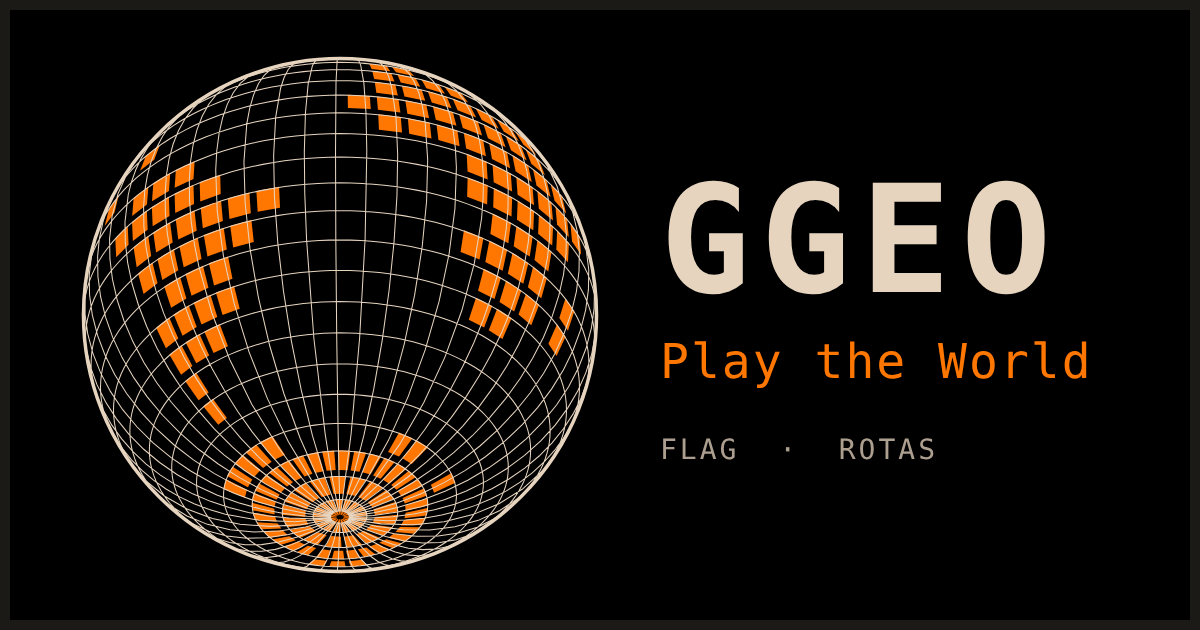
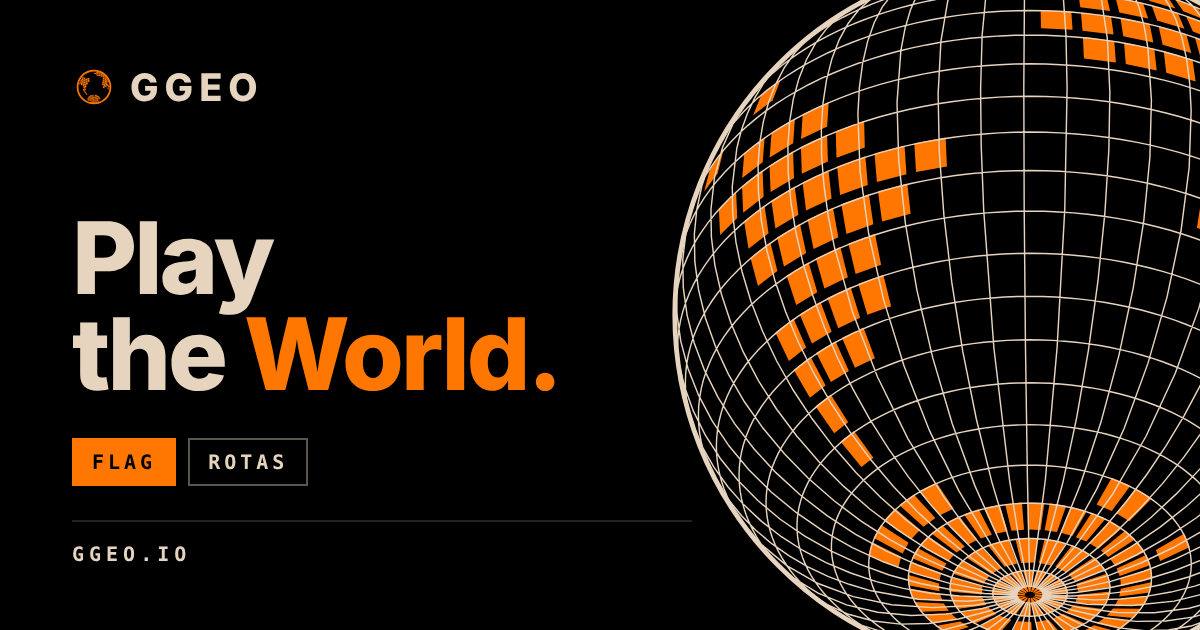
Imagem Open Graph na estética nova (Inter, marca do globo, cantos retos)
Claude-Session: https://claude.ai/code/session_01KeURJSTTy7C1x25L3EEzRe

diff --git a/games/rotas/index.html b/games/rotas/index.html
@@ -16,11 +16,11 @@
     <meta property="og:title" content="Rotas — GGEO">
     <meta property="og:description" content="Find the path between two countries through their neighbors. / Descubra o caminho entre dois países, passando pelos vizinhos.">
     <meta property="og:url" content="https://ggeo.io/games/rotas/">
-    <meta property="og:image" content="https://ggeo.io/assets/og-image.png">
+    <meta property="og:image" content="https://ggeo.io/assets/og-image.png?v=2">
     <meta property="og:image:width" content="1200">
     <meta property="og:image:height" content="630">
     <meta name="twitter:card" content="summary_large_image">
-    <meta name="twitter:image" content="https://ggeo.io/assets/og-image.png">
+    <meta name="twitter:image" content="https://ggeo.io/assets/og-image.png?v=2">
     <!-- Idioma, fonte e tema são aplicados antes de desenhar a página. Veja js/lang.js, js/font.js e js/theme.js -->
     <script src="../../js/lang.js"></script>
     <script src="../../js/font.js"></script>

diff --git a/games/flag/index.html b/games/flag/index.html
@@ -16,11 +16,11 @@
     <meta property="og:title" content="Flag — GGEO">
     <meta property="og:description" content="Look at the flag and guess the country before time runs out. / Veja a bandeira e descubra o país antes que o tempo acabe.">
     <meta property="og:url" content="https://ggeo.io/games/flag/">
-    <meta property="og:image" content="https://ggeo.io/assets/og-image.png">
+    <meta property="og:image" content="https://ggeo.io/assets/og-image.png?v=2">
     <meta property="og:image:width" content="1200">
     <meta property="og:image:height" content="630">
     <meta name="twitter:card" content="summary_large_image">
-    <meta name="twitter:image" content="https://ggeo.io/assets/og-image.png">
+    <meta name="twitter:image" content="https://ggeo.io/assets/og-image.png?v=2">
     <!-- Idioma escolhido antes de desenhar a página. Veja js/lang.js -->
     <script src="../../js/lang.js"></script>
     <!-- Tamanho da fonte (preferência única dos jogos). Veja js/font.js -->

diff --git a/index.html b/index.html
@@ -20,11 +20,11 @@
     <meta property="og:title" content="GGEO — Play the World">
     <meta property="og:description" content="Geography games: test what you know about countries, flags and maps. / Jogos de geografia para testar o que você sabe sobre países, bandeiras e mapas.">
     <meta property="og:url" content="https://ggeo.io/">
-    <meta property="og:image" content="https://ggeo.io/assets/og-image.png">
+    <meta property="og:image" content="https://ggeo.io/assets/og-image.png?v=2">
     <meta property="og:image:width" content="1200">
     <meta property="og:image:height" content="630">
     <meta name="twitter:card" content="summary_large_image">
-    <meta name="twitter:image" content="https://ggeo.io/assets/og-image.png">
+    <meta name="twitter:image" content="https://ggeo.io/assets/og-image.png?v=2">
 
     <!-- Idioma escolhido antes de desenhar a página. Veja js/lang.js -->
     <script src="js/lang.js"></script>
